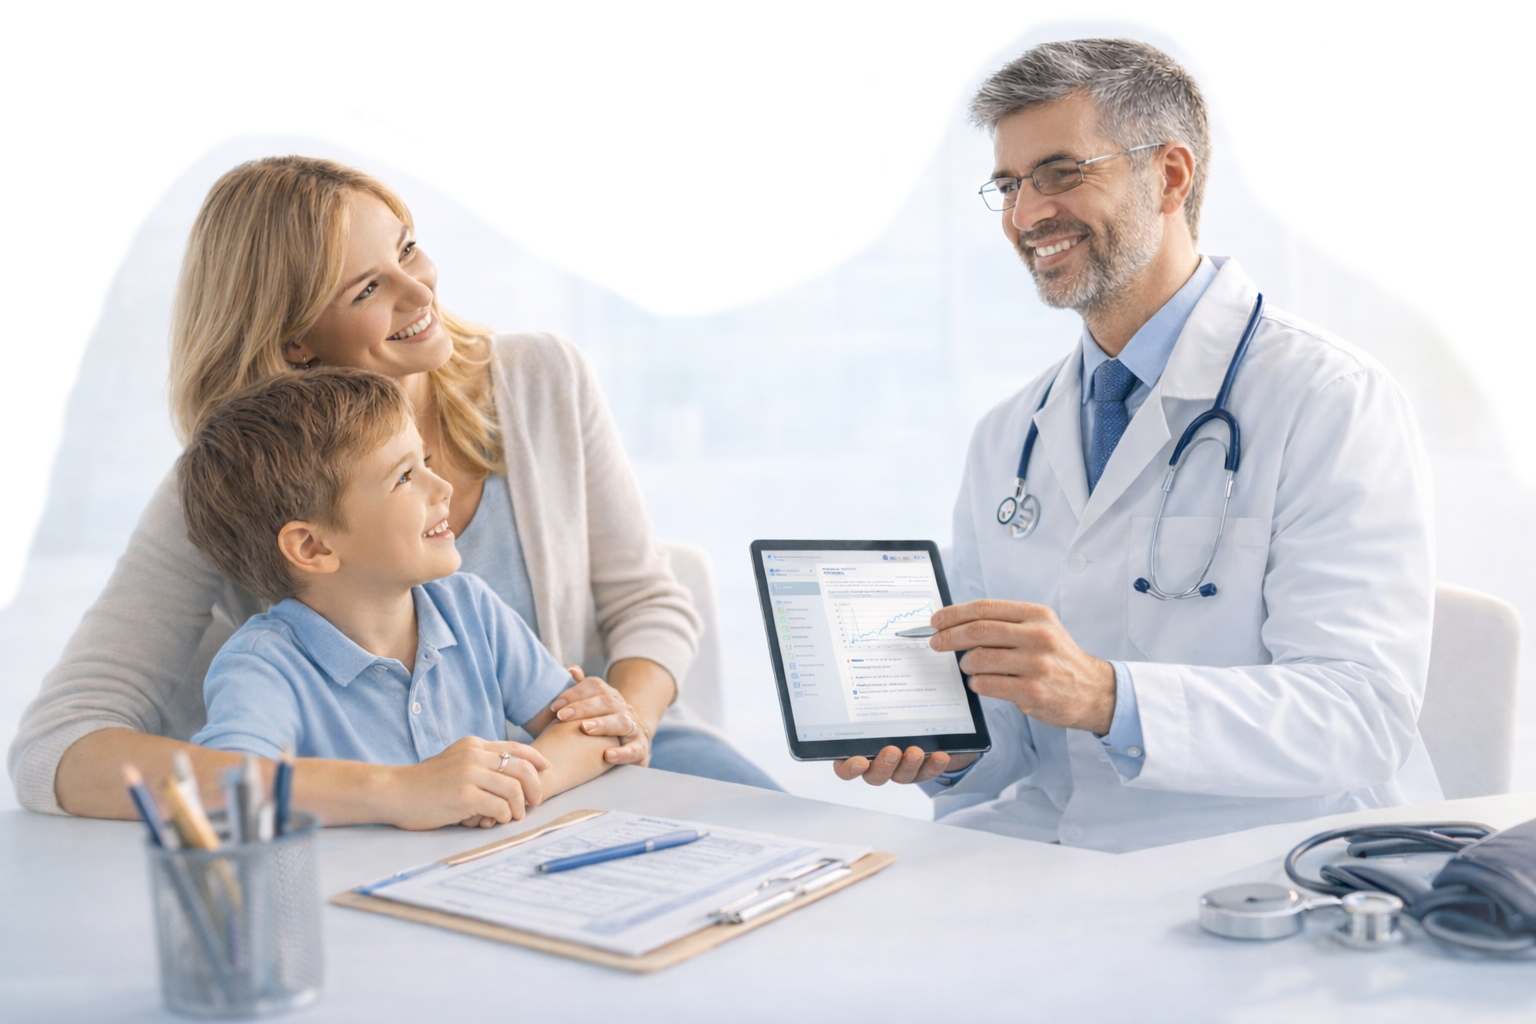
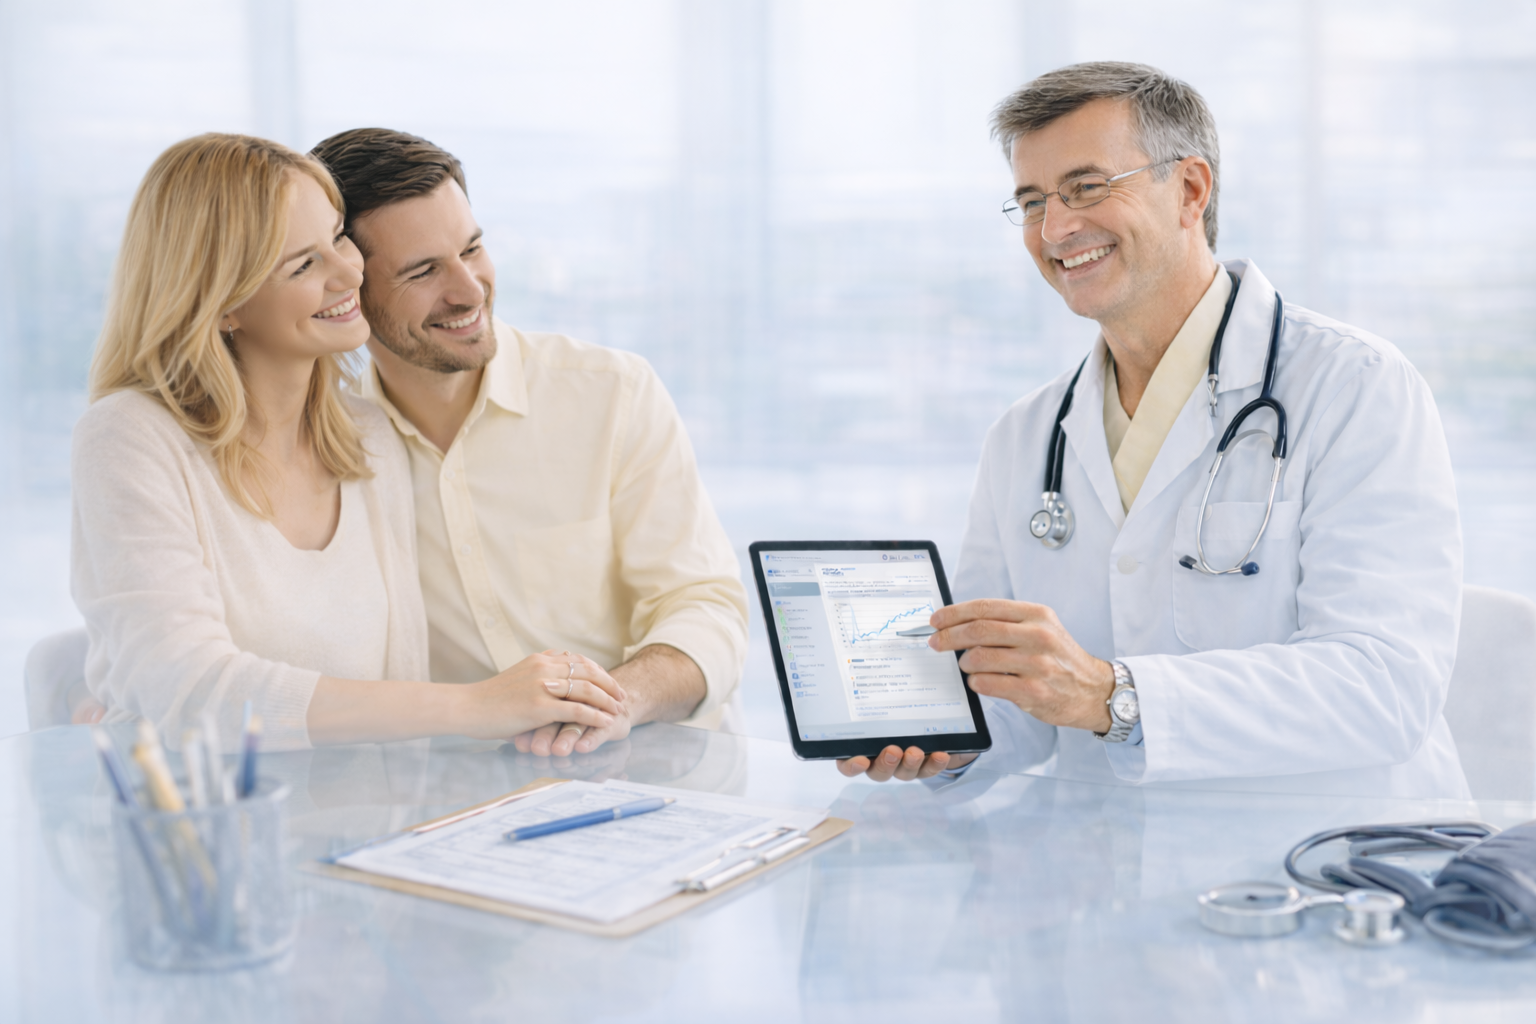
refactor(product-flow): replace absolute image with two-column grid
Wrap dental image in a new pf-experience__media-frame container
(aspect-ratio 3/2, border-radius, overflow clip). Switch pf-experience
layout from absolute-positioned media with negative margins to a
symmetric 1fr/1fr two-column grid. Apply an oval radial-gradient mask
to the image for a soft fade-to-transparent edge effect. Reduce section
padding and remove margin-bottom overrides across all breakpoints.
Update dental image asset.

Made-with: Cursor

diff --git a/src/app/site/product-flow/product-flow.component.scss b/src/app/site/product-flow/product-flow.component.scss
@@ -590,32 +590,30 @@ $pf-exp-img: url("../../../../public/images/product-flow/dental-img.png");
   }
 }
 
-/* ===== Experience: absolute media on section + viewport cap ===== */
-// __media is a direct child of the section (position: relative). Light negative top for a small upward bleed.
-// Copy sits in __inner above the photo (z-index).
+/* ===== Experience: two-column grid — image left, copy right ===== */
 .pf-experience {
   position: relative;
   z-index: 3;
-  padding: 3.5rem 0 6.25rem;
+  padding: 2rem 0 2.5rem;
   background: #fffbdd; // matches bg-secondary-light used in .solution-sec-two
-  overflow: visible;
-  margin-bottom: -1.75rem;
+  overflow: hidden;
+  margin-bottom: 0;
 
   @media (max-width: 767px) {
-    padding: 2.75rem 0 5.25rem;
-    margin-bottom: -1.5rem;
+    padding: 1.5rem 0 2rem;
+    margin-bottom: 0;
   }
 
   @media (min-width: 768px) {
-    padding-top: 5.25rem;
-    padding-bottom: 7.75rem;
-    margin-bottom: -3rem;
+    padding-top: 2.5rem;
+    padding-bottom: 3rem;
+    margin-bottom: 0;
   }
 
   @media (min-width: 1024px) {
-    padding-top: 5.75rem;
-    padding-bottom: 9.25rem;
-    margin-bottom: -3.75rem;
+    padding-top: 3rem;
+    padding-bottom: 3.5rem;
+    margin-bottom: 0;
   }
 }
 .pf-experience__inner {
@@ -640,7 +638,7 @@ $pf-exp-img: url("../../../../public/images/product-flow/dental-img.png");
 
   @media (min-width: 1440px) {
     max-width: 90rem;
-    grid-template-columns: 3fr 2fr;
+    grid-template-columns: 1fr 1fr;
     column-gap: 3.5rem;
   }
 
@@ -650,46 +648,51 @@ $pf-exp-img: url("../../../../public/images/product-flow/dental-img.png");
   }
 }
 
+// Marco exterior: border-radius + clip. aspect-ratio 3/2 = proporción exacta 1536×1024
+.pf-experience__media-frame {
+  align-self: center;
+  width: 100%;
+  aspect-ratio: 3 / 2;
+  border-radius: 1rem;
+  overflow: hidden;
+
+  @media (max-width: 767px) {
+    margin: 0 0 1.75rem;
+  }
+}
+
+// Imagen interior: mismas dimensiones que el frame, imagen completa + máscara oval
 .pf-experience__media {
   pointer-events: none;
-  overflow: visible;
+  width: 100%;
+  height: 100%;
   border: 0;
-  border-radius: 0;
-  box-shadow: none;
   background-color: transparent;
   background-image: $pf-exp-img;
   background-repeat: no-repeat;
-  background-size: contain;
+  background-size: 100% 100%;
   background-position: center center;
-
-  @media (min-width: 768px) {
-    width: 100%;
-    min-height: 24rem;
-    margin-top: -22rem;
-  }
-
-  @media (min-width: 1024px) {
-    min-height: 33.5rem;
-    margin-top: -17rem;
-  }
-
-  @media (min-width: 1440px) {
-    min-height: 36rem;
-    margin-top: -15rem;
-  }
-
-  @media (min-width: 1920px) {
-    min-height: 42rem;
-    margin-top: -13rem;
-  }
-
-  @media (max-width: 767px) {
-    width: 100%;
-    max-width: none;
-    min-height: 20rem;
-    max-height: min(75vh, 32rem);
-    margin: 0 0 1.75rem;
-  }
+  // Progressive oval alpha mask: opaque center → transparent edges
+  -webkit-mask-image: radial-gradient(
+    ellipse 82% 88% at 50% 50%,
+    #000 42%,
+    rgba(0, 0, 0, 0.72) 56%,
+    rgba(0, 0, 0, 0.38) 70%,
+    rgba(0, 0, 0, 0.1) 82%,
+    transparent 93%
+  );
+  mask-image: radial-gradient(
+    ellipse 82% 88% at 50% 50%,
+    #000 42%,
+    rgba(0, 0, 0, 0.72) 56%,
+    rgba(0, 0, 0, 0.38) 70%,
+    rgba(0, 0, 0, 0.1) 82%,
+    transparent 93%
+  );
+  -webkit-mask-repeat: no-repeat;
+  mask-repeat: no-repeat;
+  -webkit-mask-size: 100% 100%;
+  mask-size: 100% 100%;
 }
 
 .pf-experience__grid {

diff --git a/src/app/site/product-flow/product-flow.component.html b/src/app/site/product-flow/product-flow.component.html
@@ -419,11 +419,12 @@
     aria-labelledby="pf-experience-heading"
   >
     <div class="pf-experience__inner">
-      <div
+      <div class="pf-experience__media-frame" aria-hidden="true">
+        <div
           class="pf-experience__media"
           role="presentation"
-          aria-hidden="true"
         ></div>
+      </div>
       <div class="pf-experience__grid">
         <div class="pf-experience__spacer" aria-hidden="true"></div>
         <div class="pf-experience__copy">
